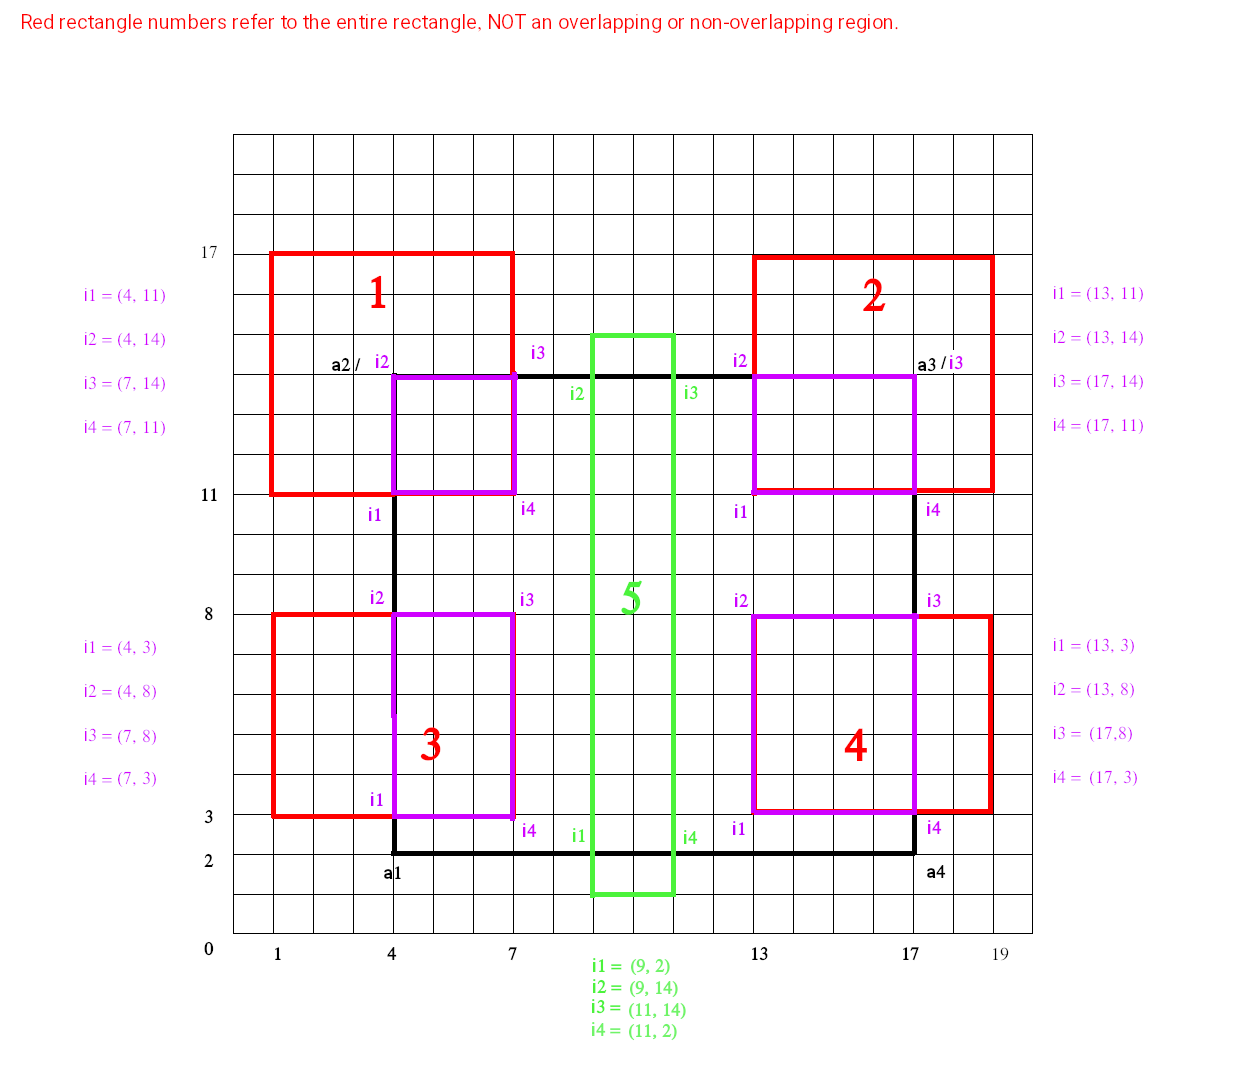
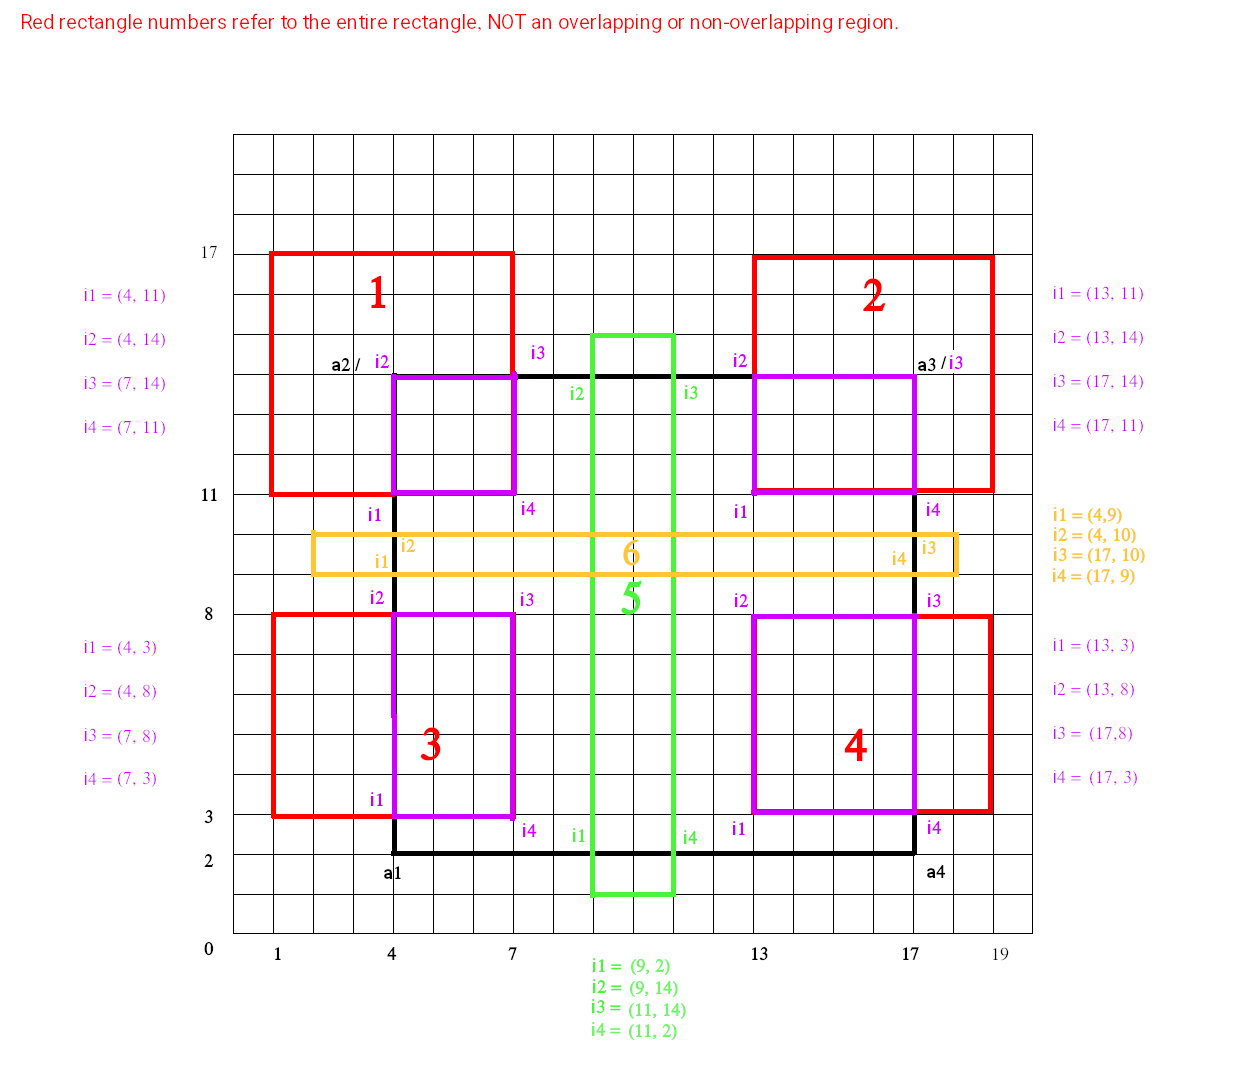
Add another test rectangle

Changed region(s): [[0.2482, 0.4958, 0.7757, 0.5577], [0.8377, 0.4648, 0.9308, 0.5577]]

diff --git a/src/test/java/org/loverde/rectangles/model/RectangleTest.java b/src/test/java/org/loverde/rectangles/model/RectangleTest.java
@@ -165,7 +165,7 @@ public class RectangleTest {
 
     // See junit_diagram.png, rectangle #5.  This time, there are four points of intersection.
     @Test
-    public void getOverlappingRegion_fromFourPointsOfIntersection() {
+    public void getOverlappingRegion_fromFourPointsOfIntersection1() {
         final Rectangle r2 = new Rectangle(
             new Point(9, 1),
             new Point(11, 15)
@@ -177,5 +177,21 @@ public class RectangleTest {
         assertEquals(new Point(9, 14), iRect.getUpperLeft());
         assertEquals(new Point(11, 14), iRect.getUpperRight());
         assertEquals(new Point(11, 2), iRect.getLowerRight());
+    }
+
+    // See junit_diagram.png, rectangle #6.  This time, there are four points of intersection.
+    @Test
+    public void getOverlappingRegion_fromFourPointsOfIntersection2() {
+        final Rectangle r2 = new Rectangle(
+            new Point(4, 9),
+            new Point(17, 10)
+        );
+
+        final Rectangle iRect = r1.getOverlappingRegion(r2);
+
+        assertEquals(new Point(4, 9), iRect.getLowerLeft());
+        assertEquals(new Point(4, 10), iRect.getUpperLeft());
+        assertEquals(new Point(17, 10), iRect.getUpperRight());
+        assertEquals(new Point(17, 9), iRect.getLowerRight());
     }
 }
